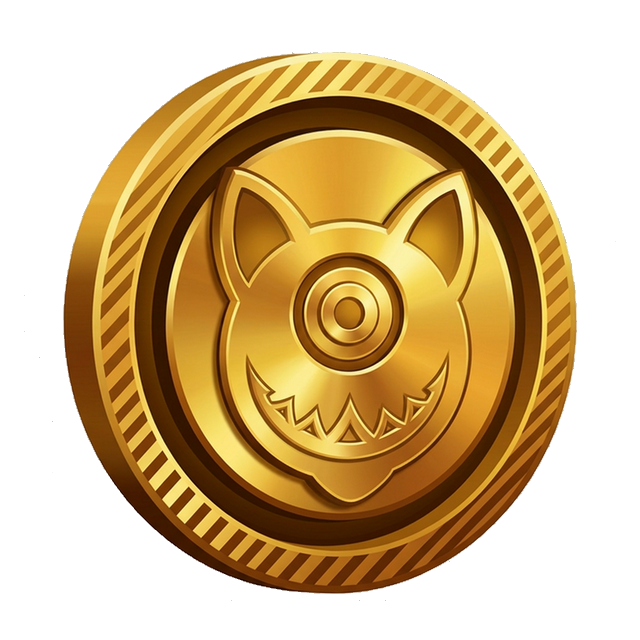
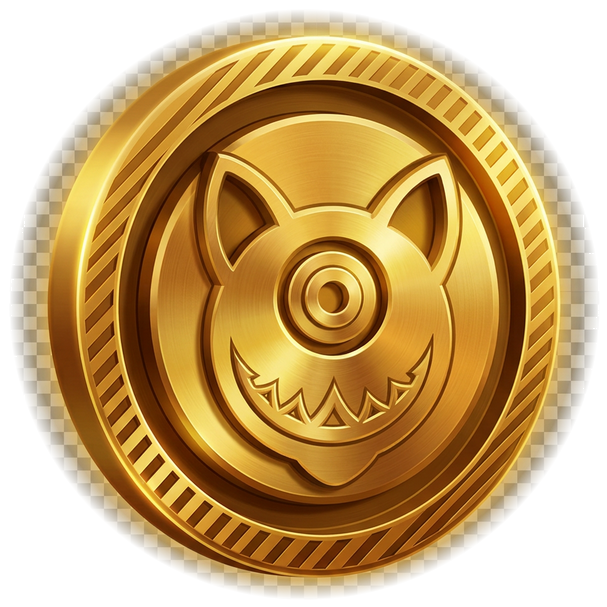
✨ 超高品质喵喵币 - 拉丝金属质感+深浮雕+光泽高光
- AI增强: 拉丝金属纹理、更深的浮雕效果、镜面高光
- Python处理: 圆形alpha遮罩+抗锯齿边缘，完美透明
- 裁剪紧凑607x607px无多余空间
- SW缓存版本 v6→v7

diff --git a/public/js/views/garden.js b/public/js/views/garden.js
@@ -175,6 +175,12 @@ const GardenView = {
                     </button>
                 </div>
                 <div class="island-hud-right">
+                    <div class="zoom-controls">
+                        <button class="hud-btn zoom-btn" id="zoom-out-btn" title="缩小">−</button>
+                        <span class="zoom-level" id="zoom-level-text">100%</span>
+                        <button class="hud-btn zoom-btn" id="zoom-in-btn" title="放大">+</button>
+                        <button class="hud-btn zoom-btn" id="zoom-reset-btn" title="重置" style="font-size:12px">↺</button>
+                    </div>
                     <button class="hud-btn" id="garden-history-btn" title="记录">📊</button>
                 </div>
             </div>
@@ -503,11 +509,18 @@ const GardenView = {
             <img src="${imgSrc}" alt="" class="iplot-img"><div class="iplot-bar"><div class="iplot-bar-fill" style="width:${pct}%"></div></div></div>`;
     },
 
+    _zoom: 1,
+    _minZoom: 0.4,
+    _maxZoom: 2.5,
+
     initDrag() {
         const vp = document.getElementById('island-viewport');
         const world = document.getElementById('island-world');
         if (!vp || !world) return;
         let drag = false, sx, sy, sl, st;
+
+        // Apply 3D isometric perspective
+        this._applyTransform(world);
 
         // Center island
         requestAnimationFrame(() => {
@@ -515,8 +528,9 @@ const GardenView = {
             vp.scrollTop = (world.offsetHeight - vp.offsetHeight) / 2.5;
         });
 
+        // ─── Mouse drag ───
         vp.addEventListener('mousedown', e => {
-            if (e.target.closest('.iplot,.island-hut')) return;
+            if (e.target.closest('.iplot,.island-hut,.zoom-controls')) return;
             drag = true; sx = e.pageX; sy = e.pageY; sl = vp.scrollLeft; st = vp.scrollTop;
             vp.style.cursor = 'grabbing';
         });
@@ -527,16 +541,91 @@ const GardenView = {
         });
         document.addEventListener('mouseup', () => { drag = false; if (vp) vp.style.cursor = 'grab'; });
 
+        // ─── Scroll-wheel zoom ───
+        vp.addEventListener('wheel', e => {
+            e.preventDefault();
+            const delta = e.deltaY > 0 ? -0.08 : 0.08;
+            this._zoom = Math.max(this._minZoom, Math.min(this._maxZoom, this._zoom + delta));
+            this._applyTransform(world);
+            this._updateZoomDisplay();
+        }, { passive: false });
+
+        // ─── Touch: drag + pinch-to-zoom ───
+        let lastPinchDist = 0;
+        let pinching = false;
+
         vp.addEventListener('touchstart', e => {
-            if (e.target.closest('.iplot,.island-hut') || e.touches.length !== 1) return;
-            drag = true; sx = e.touches[0].pageX; sy = e.touches[0].pageY; sl = vp.scrollLeft; st = vp.scrollTop;
+            if (e.touches.length === 2) {
+                // Pinch start
+                pinching = true;
+                drag = false;
+                lastPinchDist = Math.hypot(
+                    e.touches[0].pageX - e.touches[1].pageX,
+                    e.touches[0].pageY - e.touches[1].pageY
+                );
+            } else if (e.touches.length === 1 && !pinching) {
+                if (e.target.closest('.iplot,.island-hut,.zoom-controls')) return;
+                drag = true;
+                sx = e.touches[0].pageX; sy = e.touches[0].pageY;
+                sl = vp.scrollLeft; st = vp.scrollTop;
+            }
         }, { passive: true });
+
         vp.addEventListener('touchmove', e => {
-            if (!drag || e.touches.length !== 1) return;
-            vp.scrollLeft = sl - (e.touches[0].pageX - sx);
-            vp.scrollTop = st - (e.touches[0].pageY - sy);
+            if (pinching && e.touches.length === 2) {
+                const dist = Math.hypot(
+                    e.touches[0].pageX - e.touches[1].pageX,
+                    e.touches[0].pageY - e.touches[1].pageY
+                );
+                const pinchDelta = (dist - lastPinchDist) * 0.005;
+                this._zoom = Math.max(this._minZoom, Math.min(this._maxZoom, this._zoom + pinchDelta));
+                this._applyTransform(world);
+                this._updateZoomDisplay();
+                lastPinchDist = dist;
+            } else if (drag && e.touches.length === 1) {
+                vp.scrollLeft = sl - (e.touches[0].pageX - sx);
+                vp.scrollTop = st - (e.touches[0].pageY - sy);
+            }
         }, { passive: true });
-        vp.addEventListener('touchend', () => { drag = false; });
+
+        vp.addEventListener('touchend', e => {
+            if (e.touches.length < 2) pinching = false;
+            if (e.touches.length === 0) drag = false;
+        });
+
+        // ─── Zoom button events ───
+        document.getElementById('zoom-in-btn')?.addEventListener('click', () => {
+            this._zoom = Math.min(this._maxZoom, this._zoom + 0.15);
+            this._applyTransform(world);
+            this._updateZoomDisplay();
+        });
+        document.getElementById('zoom-out-btn')?.addEventListener('click', () => {
+            this._zoom = Math.max(this._minZoom, this._zoom - 0.15);
+            this._applyTransform(world);
+            this._updateZoomDisplay();
+        });
+        document.getElementById('zoom-reset-btn')?.addEventListener('click', () => {
+            this._zoom = 1;
+            this._applyTransform(world);
+            this._updateZoomDisplay();
+            // Re-center
+            requestAnimationFrame(() => {
+                vp.scrollLeft = (world.offsetWidth - vp.offsetWidth) / 2;
+                vp.scrollTop = (world.offsetHeight - vp.offsetHeight) / 2.5;
+            });
+        });
+    },
+
+    _applyTransform(world) {
+        if (!world) world = document.getElementById('island-world');
+        if (!world) return;
+        world.style.transform = `scale(${this._zoom}) perspective(1200px) rotateX(28deg)`;
+        world.style.transformOrigin = 'center center';
+    },
+
+    _updateZoomDisplay() {
+        const el = document.getElementById('zoom-level-text');
+        if (el) el.textContent = Math.round(this._zoom * 100) + '%';
     },
 
     renderPlantingToolbar() {

diff --git a/public/css/style.css b/public/css/style.css
@@ -4810,12 +4810,15 @@ form {
   display: none;
 }
 
-/* World — deep tropical ocean */
+/* World — deep tropical ocean with 3D perspective */
 .island-world {
   position: relative;
   width: 1400px;
   height: 1050px;
   user-select: none;
+  transform-style: preserve-3d;
+  transition: transform 0.25s ease-out;
+  /* 3D transform applied via JS: scale() perspective() rotateX() */
   background:
     /* Underwater light shafts */
     radial-gradient(ellipse 400px 300px at 20% 85%, rgba(0, 180, 220, 0.18) 0%, transparent 70%),

diff --git a/public/sw.js b/public/sw.js
@@ -1,4 +1,4 @@
-const CACHE_VERSION = 'v6'; // Bump on each deploy
+const CACHE_VERSION = 'v7'; // Bump on each deploy
 const CACHE_NAME = `panpu-todo-${CACHE_VERSION}`;
 
 // Static assets (cache-first)
